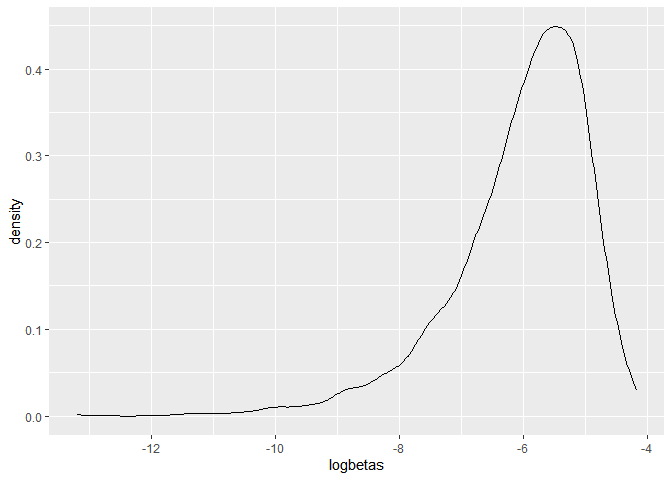
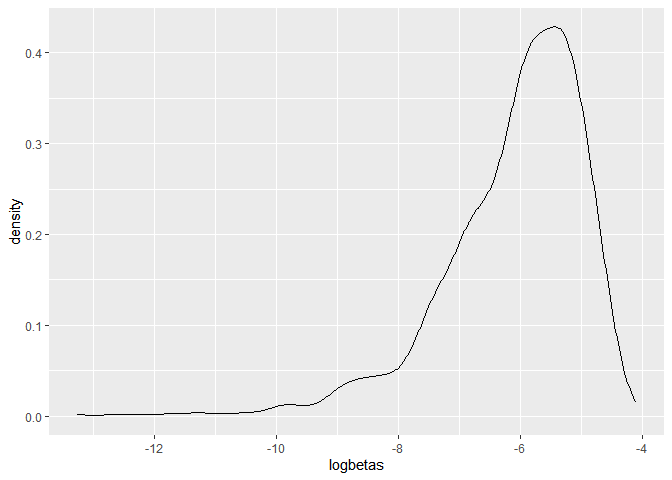
final!

diff --git a/p8105_hw6_msk2265.md b/p8105_hw6_msk2265.md
@@ -66,6 +66,11 @@ boot_df = weather_df %>%
     ## Caused by warning in `log()`:
     ## ! NaNs produced
 
+Plot the distribution of your estimates, and describe these in words.
+Using the 5000 bootstrap estimates, identify the 2.5% and 97.5%
+quantiles to provide a 95% confidence interval for r^2 and
+log(β<sup>0∗β</sup>1)
+
 ``` r
 #plot distribution
 boot_df %>% 
@@ -74,14 +79,18 @@ boot_df %>%
 
 ![](p8105_hw6_msk2265_files/figure-gfm/unnamed-chunk-5-1.png)<!-- -->
 
+The distribution of r.squared looks to be negatively skewed
+
 ``` r
 boot_df %>% 
   ggplot(aes(x = logbetas)) +geom_density()
 ```
 
-    ## Warning: Removed 3375 rows containing non-finite values (`stat_density()`).
+    ## Warning: Removed 3376 rows containing non-finite values (`stat_density()`).
 
 ![](p8105_hw6_msk2265_files/figure-gfm/unnamed-chunk-6-1.png)<!-- -->
+The distribution of logbetas is shows a stronger negative skew than the
+r.sqauared distribution
 
 ``` r
 boot_df %>% 
@@ -93,7 +102,9 @@ boot_df %>%
     ## # A tibble: 1 × 3
     ##     med lowerqt upperqt
     ##   <dbl>   <dbl>   <dbl>
-    ## 1 0.918   0.889   0.940
+    ## 1 0.918   0.890   0.940
+
+quantiles of r.squared are in the table above
 
 ``` r
 boot_df %>% 
@@ -105,18 +116,14 @@ boot_df %>%
     ## # A tibble: 1 × 3
     ##     med lowerqt upperqt
     ##   <dbl>   <dbl>   <dbl>
-    ## 1 -5.83   -8.87   -4.58
+    ## 1 -5.86   -8.93   -4.60
 
-Plot the distribution of your estimates, and describe these in words.
-Using the 5000 bootstrap estimates, identify the 2.5% and 97.5%
-quantiles to provide a 95% confidence interval for r^2 and
-log(β<sup>0∗β</sup>1)
+quantiles of logbetas are in the table above.
 
-. Note: broom::glance() is helpful for extracting r^2 from a fitted
-regression, and broom::tidy() (with some additional wrangling) should
-help in computing log(β<sup>1∗β</sup>2) .
+\##Problem 3
 
 ``` r
+#tidy data
 birth_weight_df = read_csv("./Data/birthweight.csv") %>% 
   mutate(
     babysex = 
@@ -162,6 +169,10 @@ data-driven model-building process, or a combination of the two.
 Describe your modeling process and show a plot of model residuals
 against fitted values – use add_predictions and add_residuals in making
 this plot.
+
+The fist thing I evaluated when making my model, was several
+scatterplots to visualize the relationship between bwt and other numeric
+variables. The plots are below:
 
 ``` r
 #model1
@@ -241,6 +252,8 @@ birth_weight_df %>% ggplot(aes(x=wtgain, y=bwt))+geom_point()
 
 ![](p8105_hw6_msk2265_files/figure-gfm/unnamed-chunk-10-12.png)<!-- -->
 
+Second, I compared the categorical variables by calculating averages.
+
 ``` r
 birth_weight_df %>% 
   group_by(babysex) %>% 
@@ -306,6 +319,13 @@ birth_weight_df %>%
 #not that different
 ```
 
+Based on all of those results, and the results of my scatter plots, I
+came up with the model below. I would like to note that hypothesis tests
+would have been a good idea for the categorical variables above to
+detwemine if there averages are statistically significantly different or
+not, and I would do that in a full report. I would also probably
+calculate correlation coefficiants for the scatterplots.
+
 ``` r
 model1 = lm(bwt ~ bhead + gaweeks + blength, data = birth_weight_df)
 summary(model1)
@@ -341,9 +361,11 @@ birth_weight_df %>%
   ggplot(aes(x=resid, y=pred)) +geom_point()
 ```
 
-![](p8105_hw6_msk2265_files/figure-gfm/unnamed-chunk-11-1.png)<!-- -->
-
-Compare your model to two others:
+![](p8105_hw6_msk2265_files/figure-gfm/unnamed-chunk-12-1.png)<!-- -->
+All three of the predictors I chose are significant, based on the p
+values. The residuals versus fitted values plot indicates equal variance
+because the points hover around 0 for the resid, with some outliers that
+have a high resid. Compare your model to two others:
 
 One using length at birth and gestational age as predictors (main
 effects only)
@@ -424,11 +446,11 @@ cv_df |> pull(train) |> nth(1) |> as_tibble()
     ##  3 female     36      50  3345   148      85 white    39.9 absent        12
     ##  4 male       34      52  3062   157      55 white    40   absent        14
     ##  5 female     34      52  3374   156       5 white    41.6 absent        13
-    ##  6 female     33      46  2523   126      96 black    40.3 absent        14
-    ##  7 female     33      49  2778   140       5 white    37.4 absent        12
-    ##  8 male       36      52  3515   146      85 white    40.3 absent        11
-    ##  9 male       33      50  3459   169      75 black    40.7 absent        12
-    ## 10 female     35      51  3317   130      55 white    43.4 absent        13
+    ##  6 male       33      52  3374   129      55 white    40.7 absent        12
+    ##  7 female     33      46  2523   126      96 black    40.3 absent        14
+    ##  8 female     33      49  2778   140       5 white    37.4 absent        12
+    ##  9 male       36      52  3515   146      85 white    40.3 absent        11
+    ## 10 male       33      50  3459   169      75 black    40.7 absent        12
     ## # ℹ 3,463 more rows
     ## # ℹ 10 more variables: mheight <dbl>, momage <dbl>, mrace <chr>, parity <dbl>,
     ## #   pnumlbw <dbl>, pnumsga <dbl>, ppbmi <dbl>, ppwt <dbl>, smoken <dbl>,
@@ -441,16 +463,16 @@ cv_df |> pull(test) |> nth(1) |> as_tibble()
     ## # A tibble: 869 × 20
     ##    babysex bhead blength   bwt delwt fincome frace gaweeks malform menarche
     ##    <chr>   <dbl>   <dbl> <dbl> <dbl>   <dbl> <chr>   <dbl> <chr>      <dbl>
-    ##  1 male       33      52  3374   129      55 white    40.7 absent        12
-    ##  2 female     35      57  3374   147      45 white    39.6 absent        12
-    ##  3 female     35      53  3345   127      65 black    39.7 absent        14
-    ##  4 female     35      50  3175   140      85 black    40.6 absent        14
-    ##  5 male       34      63  3175   143      25 white    41.9 absent        13
-    ##  6 male       36      54  3402   161      95 white    40.1 absent        11
-    ##  7 female     34      51  3005   149      85 white    39.3 absent        14
-    ##  8 female     34      54  3345   130      95 white    42.1 absent        10
-    ##  9 female     33      49  3147   140      45 white    40.6 absent        12
-    ## 10 female     34      49  3317   142      35 white    40.4 absent        12
+    ##  1 female     35      50  3175   140      85 black    40.6 absent        14
+    ##  2 female     35      52  3289   135      55 white    40.6 absent        13
+    ##  3 female     34      49  3118   161      45 black    38.9 absent        10
+    ##  4 female     35      51  3827   130      45 white    41.3 absent        12
+    ##  5 female     34      49  2948   135      75 white    42.7 absent        12
+    ##  6 male       35      51  3147   165      65 white    40.1 absent        13
+    ##  7 female     35      52  3487   121      45 white    39.9 absent        11
+    ##  8 male       34      51  3459   123      45 white    40   absent        12
+    ##  9 male       34      47  3090   147      85 white    42.1 absent        12
+    ## 10 female     34      46  2977   145      75 black    47.7 absent        11
     ## # ℹ 859 more rows
     ## # ℹ 10 more variables: mheight <dbl>, momage <dbl>, mrace <chr>, parity <dbl>,
     ## #   pnumlbw <dbl>, pnumsga <dbl>, ppbmi <dbl>, ppwt <dbl>, smoken <dbl>,
@@ -485,8 +507,7 @@ cv_df |>
   ggplot(aes(x = model, y = rmse)) + geom_violin()
 ```
 
-![](p8105_hw6_msk2265_files/figure-gfm/unnamed-chunk-14-1.png)<!-- -->
+![](p8105_hw6_msk2265_files/figure-gfm/unnamed-chunk-15-1.png)<!-- -->
 
-Note that although we expect your model to be reasonable, model building
-itself is not a main idea of the course and we don’t necessarily expect
-your model to be “optimal”.
+Based on the violin graph, I can see that my model, and the 3rd model
+are the best fit, since the rmse is smallest.
